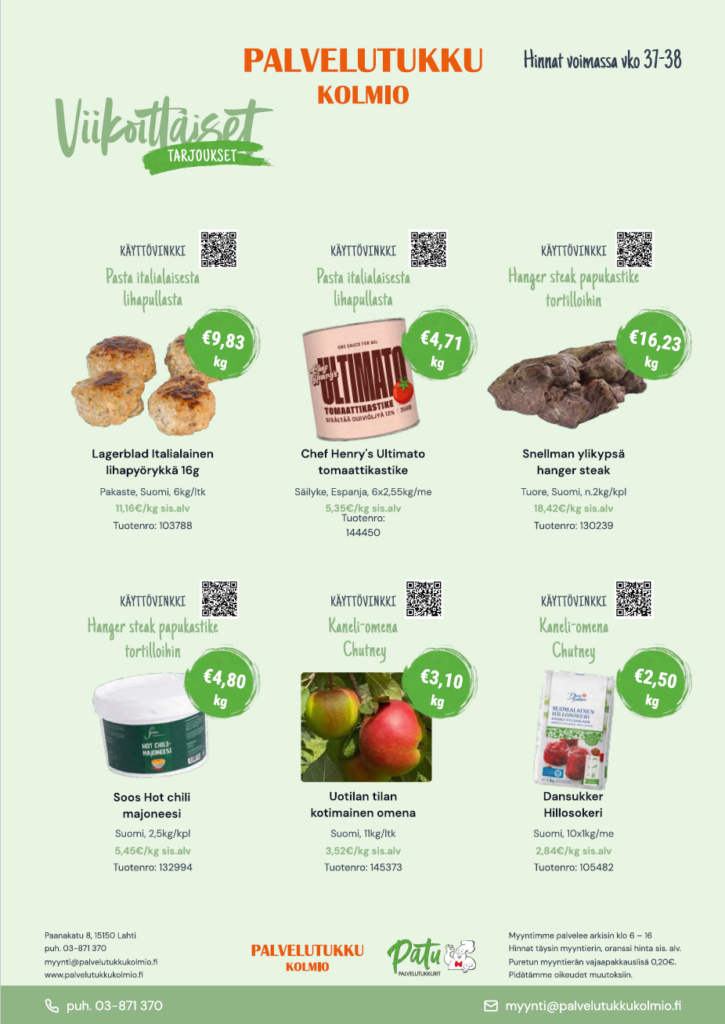
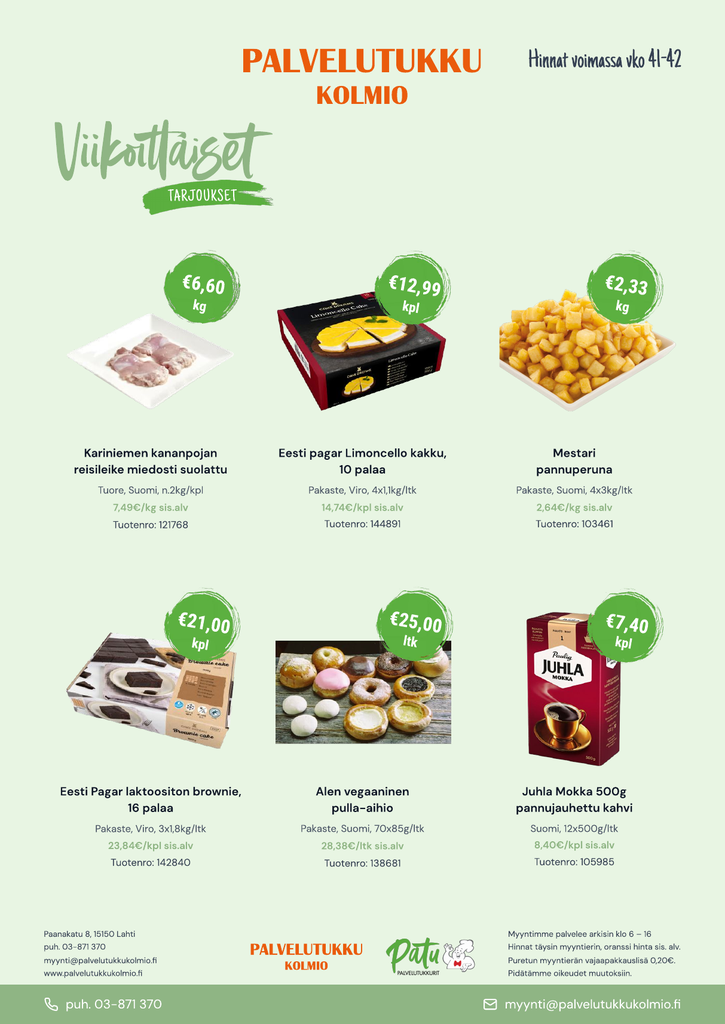
Replace Omat tarjoukset gallery with week 41-42 products
Swap the six placeholder tiles for the twelve products from the
week 41-42 weekly offer sheets, with product photos extracted from
the PDFs, and update the offer PDF cover to the new sheet.

Claude-Session: https://claude.ai/code/session_01X8Lk915b9RmWmbPNMZUzmb

diff --git a/index.html b/index.html
@@ -511,7 +511,7 @@
           </div>
         </a>
         <a class="offer-card" href="https://www.palvelutukkukolmio.fi/wp-content/uploads/2026/09/Viikkotarjous-viikot-37-38.pdf" target="_blank" rel="noopener">
-          <div class="offer-cover"><img src="assets/images/viikkotarjous-kansi.png" alt="Viikkotarjoukset, viikot 37-38" loading="lazy"></div>
+          <div class="offer-cover"><img src="assets/images/viikkotarjous-kansi.png" alt="Viikkotarjoukset, viikot 41-42" loading="lazy"></div>
           <div class="offer-body">
             <h3>Omat tarjoukset</h3>
             <p>Tämän viikon viikkotarjoukset — ladattavissa suoraan PDF-muodossa.</p>
@@ -525,73 +525,133 @@
           <div>
             <span class="eyebrow">Joka viikko uutta</span>
             <h3>Omat tarjoukset</h3>
-            <p>Kokoamme joka viikko oman valikoimamme parhaat edut yhteen — kuusi nostoa tämän viikon tarjouksista. Koko listan ja hinnat löydät ladattavasta PDF:stä.</p>
+            <p>Kokoamme joka viikko oman valikoimamme parhaat edut yhteen — kaksitoista nostoa viikkojen 41–42 tarjouksista. Koko listan ja hinnat löydät ladattavasta PDF:stä.</p>
           </div>
         </div>
         <div class="promo-gallery">
           <div class="promo-item a1">
             <div class="promo-thumb promo-thumb--photo">
-              <img src="assets/images/tomaattikastike.png" alt="Tuore salaatti" loading="lazy">
-              <span class="promo-price-badge"><strong>3,20&euro;</strong><span>/kg</span></span>
+              <img src="assets/images/tarjoukset/kananpojan-reisileike.jpg" alt="Kariniemen kananpojan reisileike miedosti suolattu" loading="lazy">
+              <span class="promo-price-badge"><strong>6,60&euro;</strong><span>/kg</span></span>
             </div>
-            <p class="promo-name">Tuore salaatti</p>
-            <p class="promo-meta">Salaatti, Suomi, 300g</p>
-            <p class="promo-price">1,95&euro;/pkt sis. alv</p>
-            <p class="promo-code">Tuotenro: 100214</p>
+            <p class="promo-name">Kariniemen kananpojan reisileike miedosti suolattu</p>
+            <p class="promo-meta">Tuore, Suomi, n.2kg/kpl</p>
+            <p class="promo-price">7,49&euro;/kg sis. alv</p>
+            <p class="promo-code">Tuotenro: 121768</p>
           </div>
           <div class="promo-item a2">
             <div class="promo-thumb promo-thumb--photo">
-              <img src="assets/images/tomaattikastike.png" alt="Leipomotuotteet" loading="lazy">
-              <span class="promo-price-badge"><strong>4,10&euro;</strong><span>/kg</span></span>
+              <img src="assets/images/tarjoukset/limoncello-kakku.jpg" alt="Eesti Pagar Limoncello kakku, 10 palaa" loading="lazy">
+              <span class="promo-price-badge"><strong>12,99&euro;</strong><span>/kpl</span></span>
             </div>
-            <p class="promo-name">Leipomotuotteet</p>
-            <p class="promo-meta">Leipä, Suomi, 400g</p>
-            <p class="promo-price">2,60&euro;/pkt sis. alv</p>
-            <p class="promo-code">Tuotenro: 100532</p>
+            <p class="promo-name">Eesti Pagar Limoncello kakku, 10 palaa</p>
+            <p class="promo-meta">Pakaste, Viro, 4x1,1kg/ltk</p>
+            <p class="promo-price">14,74&euro;/kpl sis. alv</p>
+            <p class="promo-code">Tuotenro: 144891</p>
           </div>
           <div class="promo-item a3">
             <div class="promo-thumb promo-thumb--photo">
-              <img src="assets/images/tomaattikastike.png" alt="Liha ja grillituotteet" loading="lazy">
-              <span class="promo-price-badge"><strong>9,90&euro;</strong><span>/kg</span></span>
+              <img src="assets/images/tarjoukset/pannuperuna.jpg" alt="Mestari pannuperuna" loading="lazy">
+              <span class="promo-price-badge"><strong>2,33&euro;</strong><span>/kg</span></span>
             </div>
-            <p class="promo-name">Liha ja grillituotteet</p>
-            <p class="promo-meta">Liha, Suomi, 500g</p>
-            <p class="promo-price">6,45&euro;/pkt sis. alv</p>
-            <p class="promo-code">Tuotenro: 101877</p>
+            <p class="promo-name">Mestari pannuperuna</p>
+            <p class="promo-meta">Pakaste, Suomi, 4x3kg/ltk</p>
+            <p class="promo-price">2,64&euro;/kg sis. alv</p>
+            <p class="promo-code">Tuotenro: 103461</p>
           </div>
           <div class="promo-item a1">
             <div class="promo-thumb promo-thumb--photo">
-              <img src="assets/images/tomaattikastike.png" alt="Kalatuotteet" loading="lazy">
-              <span class="promo-price-badge"><strong>12,50&euro;</strong><span>/kg</span></span>
+              <img src="assets/images/tarjoukset/brownie.jpg" alt="Eesti Pagar laktoositon brownie, 16 palaa" loading="lazy">
+              <span class="promo-price-badge"><strong>21,00&euro;</strong><span>/kpl</span></span>
             </div>
-            <p class="promo-name">Kalatuotteet</p>
-            <p class="promo-meta">Kala, Suomi, 400g</p>
-            <p class="promo-price">7,90&euro;/pkt sis. alv</p>
-            <p class="promo-code">Tuotenro: 102390</p>
+            <p class="promo-name">Eesti Pagar laktoositon brownie, 16 palaa</p>
+            <p class="promo-meta">Pakaste, Viro, 3x1,8kg/ltk</p>
+            <p class="promo-price">23,84&euro;/kpl sis. alv</p>
+            <p class="promo-code">Tuotenro: 142840</p>
           </div>
           <div class="promo-item a2">
             <div class="promo-thumb promo-thumb--photo">
-              <img src="assets/images/tomaattikastike.png" alt="Maito ja meijerituotteet" loading="lazy">
-              <span class="promo-price-badge"><strong>1,45&euro;</strong><span>/l</span></span>
+              <img src="assets/images/tarjoukset/pulla-aihio.jpg" alt="Alen vegaaninen pulla-aihio" loading="lazy">
+              <span class="promo-price-badge"><strong>25,00&euro;</strong><span>/ltk</span></span>
             </div>
-            <p class="promo-name">Maito ja meijerituotteet</p>
-            <p class="promo-meta">Maito, Suomi, 1L</p>
-            <p class="promo-price">1,45&euro;/pkt sis. alv</p>
-            <p class="promo-code">Tuotenro: 100056</p>
+            <p class="promo-name">Alen vegaaninen pulla-aihio</p>
+            <p class="promo-meta">Pakaste, Suomi, 70x85g/ltk</p>
+            <p class="promo-price">28,38&euro;/ltk sis. alv</p>
+            <p class="promo-code">Tuotenro: 138681</p>
           </div>
           <div class="promo-item a3">
             <div class="promo-thumb promo-thumb--photo">
-              <img src="assets/images/patu-kahvi.png" alt="Patu Kahvi" loading="lazy">
-              <span class="promo-price-badge"><strong>4,25&euro;</strong><span>/kg</span></span>
+              <img src="assets/images/tarjoukset/juhla-mokka.jpg" alt="Juhla Mokka 500g pannujauhettu kahvi" loading="lazy">
+              <span class="promo-price-badge"><strong>7,40&euro;</strong><span>/kpl</span></span>
             </div>
-            <p class="promo-name">Patu Kahvi</p>
-            <p class="promo-meta">Kahvi, Suomi, 500g</p>
-            <p class="promo-price">8,50&euro;/pkt sis. alv</p>
-            <p class="promo-code">Tuotenro: 118820</p>
+            <p class="promo-name">Juhla Mokka 500g pannujauhettu kahvi</p>
+            <p class="promo-meta">Suomi, 12x500g/ltk</p>
+            <p class="promo-price">8,40&euro;/kpl sis. alv</p>
+            <p class="promo-code">Tuotenro: 105985</p>
+          </div>
+          <div class="promo-item a1">
+            <div class="promo-thumb promo-thumb--photo">
+              <img src="assets/images/tarjoukset/paahtopaisti.jpg" alt="Lithells kypsä viipaloitu naudan paahtopaisti" loading="lazy">
+              <span class="promo-price-badge"><strong>20,50&euro;</strong><span>/kg</span></span>
+            </div>
+            <p class="promo-name">Lithells kypsä viipaloitu naudan paahtopaisti</p>
+            <p class="promo-meta">Pakaste, Suomi, 3xn.2kg/ltk</p>
+            <p class="promo-price">23,27&euro;/kg sis. alv</p>
+            <p class="promo-code">Tuotenro: 100376</p>
+          </div>
+          <div class="promo-item a2">
+            <div class="promo-thumb promo-thumb--photo">
+              <img src="assets/images/tarjoukset/atria-punaviinikastike.jpg" alt="Atria 1l Punaviinikastike" loading="lazy">
+              <span class="promo-price-badge"><strong>7,99&euro;</strong><span>/l</span></span>
+            </div>
+            <p class="promo-name">Atria 1l Punaviinikastike</p>
+            <p class="promo-meta">Tuore, Suomi, 6x1l/me</p>
+            <p class="promo-price">9,07&euro;/l sis. alv</p>
+            <p class="promo-code">Tuotenro: 100371</p>
+          </div>
+          <div class="promo-item a3">
+            <div class="promo-thumb promo-thumb--photo">
+              <img src="assets/images/tarjoukset/castello-sinihomejuusto.jpg" alt="Castello laktoositon sinihomejuustomuru" loading="lazy">
+              <span class="promo-price-badge"><strong>12,50&euro;</strong><span>/kg</span></span>
+            </div>
+            <p class="promo-name">Castello laktoositon sinihomejuustomuru</p>
+            <p class="promo-meta">Tuore, EU, 5x800g/me</p>
+            <p class="promo-price">14,19&euro;/kg sis. alv</p>
+            <p class="promo-code">Tuotenro: 137374</p>
+          </div>
+          <div class="promo-item a1">
+            <div class="promo-thumb promo-thumb--photo">
+              <img src="assets/images/tarjoukset/sooci-kanaliemi.jpg" alt="Kivikylän Sooci paahdettu kanaliemi" loading="lazy">
+              <span class="promo-price-badge"><strong>4,99&euro;</strong><span>/l</span></span>
+            </div>
+            <p class="promo-name">Kivikylän Sooci paahdettu kanaliemi</p>
+            <p class="promo-meta">Tuore, Suomi, 6x1l/me</p>
+            <p class="promo-price">5,66&euro;/l sis. alv</p>
+            <p class="promo-code">Tuotenro: 137029</p>
+          </div>
+          <div class="promo-item a2">
+            <div class="promo-thumb promo-thumb--photo">
+              <img src="assets/images/tarjoukset/broilerin-koipinuija.jpg" alt="Saarioinen kypsä broilerin koipinuija bbq" loading="lazy">
+              <span class="promo-price-badge"><strong>6,70&euro;</strong><span>/kg</span></span>
+            </div>
+            <p class="promo-name">Saarioinen kypsä broilerin koipinuija bbq</p>
+            <p class="promo-meta">Pakaste, Suomi, 4,5kg/ltk</p>
+            <p class="promo-price">7,60&euro;/kg sis. alv</p>
+            <p class="promo-code">Tuotenro: 103734</p>
+          </div>
+          <div class="promo-item a3">
+            <div class="promo-thumb promo-thumb--photo">
+              <img src="assets/images/tarjoukset/couscoussalaatti.jpg" alt="Saarioinen Couscoussalaatti" loading="lazy">
+              <span class="promo-price-badge"><strong>6,63&euro;</strong><span>/kg</span></span>
+            </div>
+            <p class="promo-name">Saarioinen Couscoussalaatti</p>
+            <p class="promo-meta">Tuore, Suomi, 1,6kg/kpl</p>
+            <p class="promo-price">7,53&euro;/kg sis. alv</p>
+            <p class="promo-code">Tuotenro: 108442</p>
           </div>
         </div>
         <div class="promo-cta-row">
-          <p>Nämä ovat esimerkkinostoja valikoimastamme — ajantasaiset hinnat ja koko tuotevalikoima löytyvät viikoittain päivittyvästä PDF:stä.</p>
+          <p>Hinnat voimassa viikoilla 41–42 — ajantasaiset hinnat ja koko tuotevalikoima löytyvät viikoittain päivittyvästä PDF:stä.</p>
           <a class="btn" href="https://www.palvelutukkukolmio.fi/wp-content/uploads/2026/09/Viikkotarjous-viikot-37-38.pdf" target="_blank" rel="noopener">Lataa viikon tarjoukset (PDF)</a>
         </div>
       </div>
